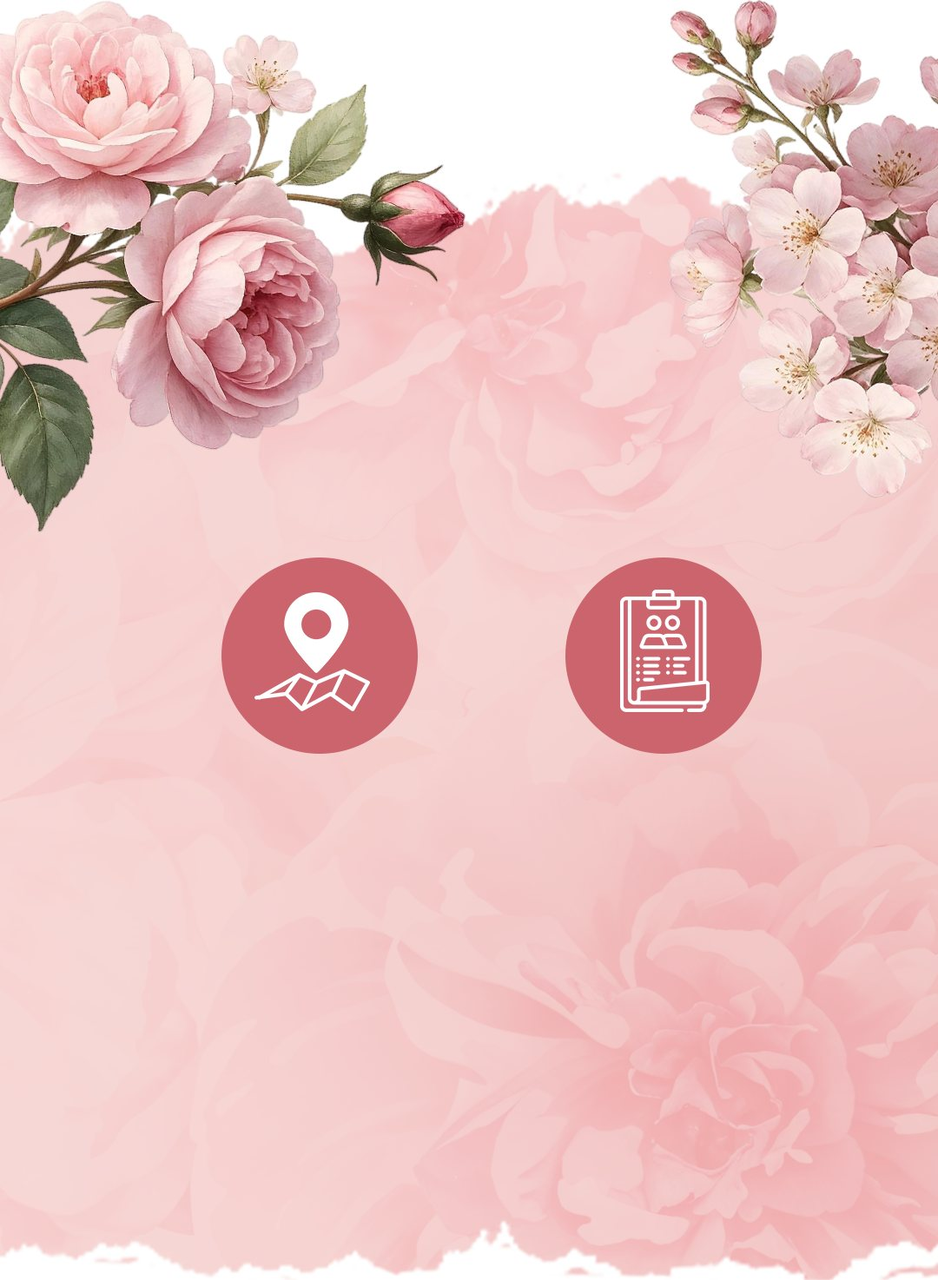
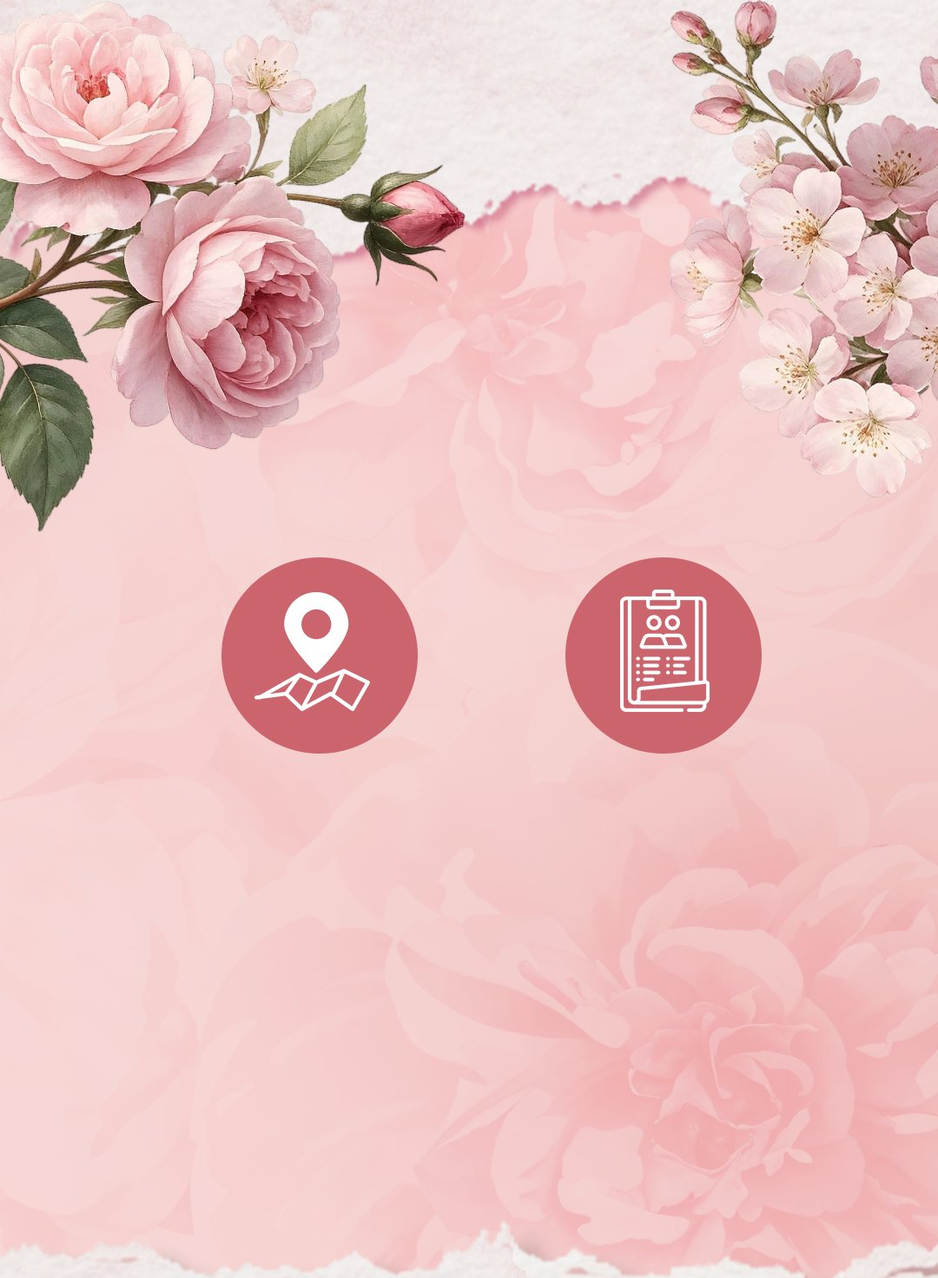
Arte atualizada, borboletas menores com sombra, calendário sobre o papel
Claude-Session: https://claude.ai/code/session_01QqVtgy1GKZ2iQAML3LUrzv

diff --git a/index.html b/index.html
@@ -56,8 +56,9 @@
   @keyframes pulso{0%,100%{box-shadow:0 0 0 0 rgba(201,168,90,0)}50%{box-shadow:0 0 26px 4px rgba(201,168,90,.25)}}
 
   /* calendário */
-  .calendario{padding:3cqw 10cqw 7cqw;text-align:center;opacity:0;transform:translateY(20px);transition:opacity 1.2s ease,transform 1.2s ease}
-  .calendario.revelada{opacity:1;transform:none}
+  .calendario{min-height:87.5cqw;background:url(img/arte-cal.jpg) center/100% 100% no-repeat;padding:2cqw 10cqw 7cqw;text-align:center;}
+  .calendario>*{opacity:0;transform:translateY(20px);transition:opacity 1.2s ease,transform 1.2s ease}
+  .calendario.revelada>*{opacity:1;transform:none}
   .calendario h2{font-family:"Pinyon Script",cursive;font-weight:400;font-size:13cqw;line-height:1.1;color:var(--ouro)}
   .calendario .ano{font-size:3.6cqw;letter-spacing:.42em;margin:.6cqw 0 4cqw;padding-left:.42em}
   .mes{display:grid;grid-template-columns:repeat(7,1fr);row-gap:.4cqw}
@@ -91,28 +92,30 @@
 </head>
 <body>
 <main id="convite">
-  <div class="faixa" data-img="img/arte-a.jpg" data-h="800" aria-label="Laura Chimada, XV anos">
+  <div class="faixa" data-img="img/arte-a.jpg" data-h="2000" aria-label="Laura Chimada, XV anos">
     <svg id="logo" viewBox="-17.4 -409.7 1195.8 897.5" aria-hidden="true">
 <defs><linearGradient id="ouro" gradientUnits="userSpaceOnUse" x1="-1300" y1="-200" x2="1300" y2="200" gradientTransform="translate(-1400 0)"><stop offset="0" stop-color="#b08643"/><stop offset=".44" stop-color="#b78d48"/><stop offset=".5" stop-color="#f1dca8"/><stop offset=".56" stop-color="#b78d48"/><stop offset="1" stop-color="#b08643"/></linearGradient>
 <clipPath id="corte-nome"><rect id="corte-ret" x="-20" y="100" width="0" height="260"/></clipPath></defs>
 <g fill="url(#ouro)"><g id="logo-mono"><path d="M501.28-298.75c0.02-28.8,0.02-57.61,0.08-86.41c0.02-11.36-4.52-17.09-15.7-19.73c-1.65-0.39-4.24-0.18-3.93-2.78 c0.29-2.48,2.76-1.98,4.48-1.99c22.81-0.05,45.62-0.05,68.43-0.05c0.99,0,2,0.09,2.98,0.26c1.04,0.18,1.91,0.71,2.09,1.84 c0.23,1.46-0.75,2.1-1.94,2.45c-0.96,0.28-1.95,0.45-2.91,0.71c-9.72,2.64-14.48,8.77-14.48,18.81 c-0.02,40.29-0.03,80.58-0.03,120.88c0,46.12,0.01,92.24,0.03,138.36c0,11.13,2.05,13.87,12.72,17.15c1.71,0.52,3.98,0.61,3.62,3.2 c-0.34,2.47-2.53,2.3-4.34,2.3c-22.48,0-44.96-0.01-67.43-0.08c-1.92-0.01-4.4,0.25-4.5-2.65c-0.09-2.53,2.24-2.5,3.94-2.96 c11.5-3.09,15.97-8.54,16.83-20.44c0.17-2.36-0.54-5.26,3.22-5.71c1.19-0.14,0.92-1.25,0.67-2.01c-3.02-9.39-4.27-19.13-5.6-28.85 c-0.03-0.25-0.4-0.46-0.82-0.92c-3.34,6.04-6.81,11.87-9.86,17.9c-7.02,13.91-15.84,26.61-25.91,38.4 c-11.71,13.71-26.55,21.29-44.84,21.4c-1.81,0.01-3.85,0.06-5.4-0.69c-10.13-4.87-21.3-7.34-30.9-13.39 c-1.25-0.79-2.84-1.64-3.4-2.85c-2.8-6.12-8.58-9.59-12.54-14.65c-2.9-3.7-11.11-25.85-10.18-30.27 c2.3-10.91,3.03-22.57,11.83-31.01c2.25-2.16,2.43-3.49-0.6-5.16c-5-2.76-9.68-6.38-12.58-11.19c-4.43-7.33-8.07-15.74-8.57-23.96 c-0.69-11.39,3.41-22.82,2.39-34.51c-0.12-1.38,0.57-2.99,1.3-4.25c1.47-2.55,1.04-4.46-0.83-6.72c-3.41-4.11-4.51-9.25-5.07-14.41 c-0.3-2.7-1.14-4.69-3.45-6.22c-7.46-4.93-12.48-11.42-12.85-20.78c-0.06-1.64-1.22-2.67-2.35-3.68c-1.91-1.68-3.29-3.75-4.36-6.03 c-5.18-11.05-1.36-19.13,10.62-21.61c10.53-2.18,20.91,0,31.12,2.35c17.78,4.09,34.53,10.94,50.59,19.57 c5.63,3.02,5.21,2.8,5.64-3.43c0.43-6.26,0.21-12.18-2.49-17.91c-0.34-0.73-0.6-1.68-0.43-2.43c1.69-7.85-1.35-15.25-1.92-22.81 c-0.67-8.87,0.18-17.94,0-26.97c-0.2-9.96,8.82-15.58,18.51-12.87c9.22,2.57,16.02,9.11,22.1,15.74 c18.04,19.65,30.22,42.87,38.9,67.99c2.66,7.7,5.45,15.35,8.18,23.03c3.79,20.18,10.78,39.73,11.11,61.12 c1.53-0.79,2.24-1.14,2.93-1.51c3.72-2.02,7.15-1.14,10.2,1.32c3.22,2.59,2.31,5.93,1.15,9.16c-0.92,2.56-2.38,4.78-4.67,6.32 c-1.81,1.22-2.61,2.8-2.75,4.99c-0.5,8.09-3.03,15.58-6.51,22.88c-3.1,6.5-7.06,12.53-6.75,20.53c0.4,10.2,1.22,20.24,3.8,30.11 c0.96,3.67,1.79,7.36-0.86,11.69c3.71-1.85,4.61-4.12,3.83-6.98c-1.98-7.27-2.41-14.78-3.26-22.2 c-1.28-11.18-1.11-22.17,5.27-32.32c2.98-4.74,5.38-10.1,5.91-15.8c0.51-5.39,0.86-10.39,5.89-13.98c1.66-1.18,2.49-3.93,3.1-6.13 c1.96-7.09-2.55-15.48-10.5-14.08c-3.57,0.63-4.31-1.67-4.7-4.29c-0.87-5.76-1.5-11.55-2.48-17.29 C510.08-276.91,507.11-288.3,501.28-298.75z M420.12-285.75c-7.39-0.17-8.86,0.95-7.37,4.51c3.41,8.12,7.33,15.98,12.08,23.45 c9.58,15.08,22.79,26.33,37.73,35.6c9.74,6.04,20.08,11.08,31.1,14.52c2.19,0.69,4.95,1.9,6.29-0.74 c2.07-4.06,3.79-8.01,0.98-13.06c-12.36-22.24-28.43-40.67-50.89-53.3C440.04-280.39,429.57-284.12,420.12-285.75z M466.14-270.19 c-1.83-4.26-2.83-5.47-6.64-8.34c-1.99-1.5-4.11-2.86-5.96-4.52c-24.02-21.61-51.95-36.34-82.32-46.72 c-10.1-3.45-20.58-5.42-31.29-5.84c-3.26-0.13-6.07,0.75-7.1,4.21c-1.77,5.97,4.29,15.66,10.76,15.82 c23.63,0.58,45.71,8.02,67.26,17.1C429.83-290.5,448.43-281.74,466.14-270.19z M505.92-226.17c1.93-3.64,1.53-7.31,1.25-10.86 c-1.02-12.8-4.12-25.22-7.18-37.64c-4.67-18.91-12.62-36.02-26.88-49.74c-1.4-1.34-2.6-3.25-5.02-2.5 c-2.53,0.79-2.92,3.08-3.16,5.2c-0.87,7.7-0.29,15.22,2.67,22.51c3.36,8.29,6.84,16.49,10.76,24.57 C486.49-257.89,498.64-243.49,505.92-226.17z M456.43-219.52c-7.68-4.06-13.6-11.06-21.96-13.61c-22.65-6.92-45.77-9.68-69.39-6.21 c-6.89,1.01-7.91,2.04-9.21,8.86c-0.61,3.17-0.23,6.24,0.57,9.35c1.07,4.14,2.99,5.64,7.53,4.46c18.26-4.73,36.86-6.51,55.75-6.34 C432.07-222.91,444.13-220.78,456.43-219.52z M444.9-151.88c6.87,1.16,12.1-2.45,17.72-5.49c13.22-7.17,23.96-17.28,34.49-27.73 c2.62-2.6,2.63-5.83,1.63-8.83c-0.95-2.88-3.95-1.76-6.15-1.83c-1.98-0.06-4.02,0.05-5.96,0.45 c-20.33,4.13-35.44,16.06-47.63,32.21c-2.03,2.69-4.95,5.8-2.85,9.44C438.06-150.38,441.95-152.29,444.9-151.88z M476.35-207.81 c-0.06-1.35-0.81-1.45-1.38-1.68c-0.92-0.37-1.86-0.74-2.83-0.97c-25.41-5.91-51.13-8.22-77.17-6.2 c-9.95,0.77-19.81,2.28-29.49,4.75c-2.4,0.61-4.96,1.18-3.98,4.92c2.1,7.98,9.53,12.3,17.32,9.84c1.74-0.55,3.49-1.09,5.26-1.54 c27.71-7.05,55.91-9.62,84.44-9.12C471.13-207.78,473.73-207.81,476.35-207.81z M488.01-312.9c0.36-0.25,0.73-0.51,1.09-0.76 c-8.5-23.32-18.42-45.91-33.94-65.64c-5.37-6.83-11.23-13.17-18.82-17.65c-2.77-1.64-5.49-2.54-8.17,0.14 c-4.13,4.12-3.65,13.49,1.15,16.78c14.05,9.63,25.37,21.9,35.29,35.61C472.29-333.83,480.2-323.4,488.01-312.9z M430.38-239.9 c-4.63-5.9-8.27-10.59-11.99-15.22c-0.49-0.61-1.33-1.02-2.09-1.3c-16.73-6.18-33.93-9.41-51.83-8.32 c-2.48,0.15-4.27,1.02-4.6,3.59c-0.51,3.94-1.39,7.82-0.88,11.88c0.52,4.16,2.18,5.55,6.58,5.05c9.56-1.1,19.21-0.98,28.83-0.77 C406.04-244.74,417.42-242.45,430.38-239.9z M498.29-178.36c-1.6-0.73-2.11-0.3-2.57,0.17c-8.33,8.55-17.58,16.11-25.67,24.98 c-13.77,15.11-24.79,31.97-34.18,50.01c-0.65,1.24-1.76,2.8-0.39,4.12c1.36,1.31,2.82,0.08,4.13-0.49 c9.6-4.2,16.31-11.85,22.85-19.6c11.87-14.04,20.4-30.26,29.56-46.05C494.45-169.41,496.23-173.99,498.29-178.36z M413.82-291.14 c-15.63-7.01-31.01-14.16-47.75-17.38c-7.34-1.41-14.66-2.99-22.19-3.13c-3.16-0.06-4.71,1.07-4.18,4.44 c1.11,7.09,9.67,14.91,16.87,15.54c15.1,1.32,30.14,2.98,44.11,9.53c2.69,1.26,3.23,0.35,2.75-2.25c-0.53-2.88,1.21-4.32,3.69-5.03 C409.33-290.06,411.59-290.58,413.82-291.14z M367.98-136c0.45,5.86,3.45,9.71,7.02,13.36c2.15,2.2,3.65,2.07,5.74-0.06 c11.42-11.61,24.79-20.54,39.43-27.46c5.13-2.42,8.58-5.51,10.51-10.92c1.16-3.28,0.5-4.12-2.5-3.5 c-20.55,4.23-39.81,11.6-57.07,23.74C369.29-139.57,367.97-137.86,367.98-136z M461.88-151.86c-9.19,3.64-17.79,5.05-24.64,11.83 c-10.66,10.56-21.77,20.56-29.1,33.93c-1.32,2.4-2.14,4.38,0.18,6.67c5.77,5.68,17.48,4.41,21.49-2.58 c6.37-11.11,12.04-22.63,19.6-33.03C453.29-140.37,457.25-145.62,461.88-151.86z M438.91-147.21c-5.01-0.94-8.64-3.27-13.04-1.23 c-13.79,6.38-26.98,13.59-37.87,24.46c-8.24,8.23-7.98,11.23,1.92,17.6c1.25,0.8,2.62,1.45,3.98,2.05 c4.12,1.83,7.01,0.79,9.73-3.04c5.66-7.96,10.75-16.31,17.7-23.38C426.77-136.27,432.71-141.23,438.91-147.21z M436.06-178.87 c-21.81,2.61-43.61,6.03-64.14,15.05c-6.85,3.01-9.66,8.9-7.66,16.04c1.11,3.94,2.6,4.68,6.25,2.27 c18.43-12.16,38.79-19.56,60.38-23.76c2.78-0.54,5.59-1.14,7.71-3.24c1.61-1.6,5.11-2.77,4.41-4.87 C442.1-180.13,438.59-178.1,436.06-178.87z M413.83-263.42c-3.81-4.4-4.81-11.06-10.6-13.79c-14.29-6.75-29.42-10.29-45.27-10.6 c-1.3-0.03-2.63-0.25-3.35,1.4c-2.64,6.07,4.17,16.77,10.78,16.62c15.58-0.34,30.84,1.28,45.57,6.69 C411.7-262.83,412.52-262.43,413.83-263.42z M427.91-375.84c-2.08-0.14-2.45,1-2.88,2.1c-2.06,5.16-0.01,15,4.4,18.47 c10.85,8.53,21.33,17.36,29.07,29c0.8,1.2,1.95,2.58,3.46,0.47c4.62-6.42,4.65-7.9,0.15-14.61c-0.92-1.38-1.82-2.78-2.73-4.17 c-7.24-11.09-16.02-20.74-26.78-28.52C431.01-374.26,429.19-375.1,427.91-375.84z M466.76-193.74c-13.28,0.49-26.42,2-39.35,5.32 c-14.54,3.74-29.27,5.95-44.38,4.73c-7.05-0.57-16.31,8.53-16.08,15.47c0.06,1.77,0.66,2.55,2.47,1.51 c14.61-8.34,31.43-9.35,47.19-13.83c9.47-2.69,19.63-3.32,29.64-3.37c1.65-0.01,3.48,0.3,4.86-0.73 C455.95-188.24,461.63-190.31,466.76-193.74z M378.6-192.42c1.07,2.31,2.88,2.29,4.41,2.67c6.08,1.49,12.25,1.31,18.34,0.35 c9.29-1.47,18.54-3.21,27.78-5.07c12.84-2.6,25.89-3.95,39.05-4.59c7.27-0.36,14.75,0.03,22.76-2.33 C452.32-206.05,415.26-203.14,378.6-192.42z M461.37-301.7c-1.03-6.08-0.71-12.49-3.76-17.85c-6.91-12.13-16.55-21.95-27.46-30.58 c-2.98-2.36-4.01-1-4.36,2.01c-0.99,8.44,1.78,15.33,8.51,20.58c6.97,5.44,12.74,12.13,18.91,18.39 C455.72-306.59,457.51-303.31,461.37-301.7z M468.86-279.44c-2.7-7.99-7.3-14.45-12.78-20.56c-7.53-8.39-15.67-16.19-23.23-24.54 c-1.3-1.44-2.92-3.27-5.07-2.47c-2.46,0.92-2.37,3.58-2.12,5.62c0.73,6.06,2.58,11.53,8.21,15.1c7.71,4.88,15.34,9.86,22.02,16.22 C459.92-286.22,464.51-282.96,468.86-279.44z"/><path d="M635.19-103.72c-10.16,0-20.32,0.08-30.47-0.04c-3.75-0.05-5.32,1.29-5.47,5.2c-1.82,45.33,10.32,86.4,40.41,120.54 c25.14,28.52,57.23,42.57,96.2,38.27c24-2.65,44.08-13.04,61.61-29.11c12.41-11.37,22.42-24.56,30-39.59 c0.15-0.3,0.28-0.6,0.44-0.9c0.96-1.78,2.02-4.01,4.43-2.9c2.79,1.29,1.53,3.76,0.56,5.62c-2.76,5.32-5.42,10.72-8.64,15.76 c-20.84,32.57-50.71,52.01-88.22,60.23c-18.85,4.13-37.81,3.93-56.53,0.06c-25.36-5.24-48.13-16.26-67.83-33.29 c-31.6-27.31-49.11-61.82-53.66-103.26c-3.77-34.38,4.98-65.75,22.46-94.91c19.99-33.35,48.52-56.63,85.27-69.5 c30.13-10.56,60.3-9.48,89.99,1.56c22.11,8.22,39.79,22.65,53.73,41.63c8.44,11.49,14.55,24.19,19.53,37.51 c1.91,5.1,0.52,8.15-4.11,10.54c-16.65,8.57-31.72,7.08-41.21-11.39c-7.53-14.65-13.97-29.95-23.78-43.28 c-15.57-21.15-35.42-35.28-62.93-34.59c-17.27,0.43-32.42,7.56-45.56,18.27c-30.24,24.65-45.12,57.72-50.78,95.55 c-0.91,6.07,0.04,7.12,6.31,6.63c28.06-2.2,49.1-15.23,62.04-40.58c0.38-0.74,0.71-1.51,1.13-2.23c0.88-1.51,2.01-2.85,3.96-2.32 c2.07,0.57,2.09,2.47,1.95,4.11c-0.51,5.97-1.15,11.92-1.75,17.88c-0.76,7.61-1.62,15.22-2.26,22.85 c-0.34,4.05-2.06,5.81-6.35,5.71c-10.15-0.24-20.32-0.08-30.47-0.08C635.19-103.76,635.19-103.74,635.19-103.72z"/></g><g id="logo-nome" clip-path="url(#corte-nome)"><path d="M852.6,257.97c-4.25,3.85-8.26,7.43-11.32,11.98c-9.11,13.53-18.35,26.98-26.04,41.4c-2.05,3.84-4.53,6.76-9.39,5.33 c-4.6-1.35-5.78-5.04-5.98-9.33c-0.23-5.02,0.62-9.93,1.73-15.75c-5.34,5.27-10.15,9.84-14.73,14.61 c-5.72,5.96-12.4,10.7-19.68,14.33c-11.02,5.49-21.23,0.24-24.05-11.78c-1.11-4.71-1.44-9.45-0.57-14.43 c-8.02,10.61-16.5,20.56-25.98,29.64c-2.41,2.31-4.83,4.54-7.86,6.07c-11.15,5.64-20.9,0.02-21.73-12.48 c-0.86-12.98,2.97-25,7.17-36.97c1.49-4.24,3.02-8.46,4.34-12.75c0.52-1.68,1.33-3.96-0.44-5.09c-1.98-1.26-3.27,0.96-4.52,2.13 c-6.74,6.32-11.92,13.9-16.65,21.75c-4.12,6.84-7.73,13.98-11.57,20.98c-1.12,2.04-2.25,4.08-3.41,6.09 c-1.78,3.09-4.63,3.68-7.78,2.95c-3.34-0.77-5-3.16-5.11-6.53c-0.09-2.8-0.02-5.6-0.02-9.29c-5.03,6.18-9.29,11.83-13.98,17.1 c-14.94,16.82-31.95,30.76-54.32,36.45c-25.75,6.55-50.57-7.04-59.52-32.08c-6.53-18.28-6.77-36.97-3.08-55.66 c7.97-40.35,27.74-74.95,53.35-106.51c13.86-17.08,29.67-31.94,49.65-41.79c7.1-3.5,14.57-5.64,22.58-5.53 c11.9,0.16,20.02,8.04,20.65,19.92c0.64,12-2.8,23.1-7.64,33.78c-5.8,12.78-12.86,24.84-22.31,35.34 c-1.76,1.95-3.96,3.54-6.07,5.14c-1.27,0.97-2.82,1.23-4.12,0c-1.55-1.46-0.92-3.07,0.1-4.49c0.77-1.08,1.75-2.01,2.64-3 c13.43-14.98,23.28-31.98,28.81-51.37c1.78-6.26,2.98-12.62,1.48-19.21c-1.43-6.29-4.9-9.55-11.33-9.93 c-9.07-0.53-16.5,3.51-23.2,8.98c-17.46,14.26-31.23,31.68-43.26,50.63c-14.9,23.47-26.79,48.29-34.61,75.01 c-6.44,22.03-9.03,44.34-4.39,67.06c3.17,15.53,13.72,26.37,27.69,27.53c10.18,0.85,19.65-2.66,28.57-7.51 c20.08-10.92,35.2-27.06,48.45-45.31c3.63-5,5.68-10.2,6.69-16.3c5.51-33.19,15.49-65,29.85-95.46 c8.52-18.06,18.58-34.96,33.64-48.42c5.45-4.87,11.7-8.41,19.01-9.27c10.24-1.2,15.89,5.41,14.39,16.27 c-2.01,14.58-9.05,27.02-16.61,39.25c-12.04,19.5-26.36,37.2-42.45,53.47c-4.79,4.85-8.77,10.48-14.25,14.67 c-0.74,0.57-1.36,1.55-1.61,2.46c-3.59,13.16-7.19,26.33-9.48,39.8c-0.13,0.75,0.1,1.56,0.28,3.73c5.04-7.82,9.3-14.64,13.79-21.31 c2.32-3.44,4.94-6.7,7.62-9.88c1.71-2.03,3.54-4.08,5.69-5.58c4.66-3.24,9.52-6.62,15.58-3.41c4.61,2.44,6.56,8.64,5.22,15.98 c-1.91,10.52-5.86,20.48-8.65,30.75c-1.71,6.3-3.12,12.58-2.82,19.18c0.18,3.9,1.74,4.74,5.04,2.91c2.92-1.63,5.63-3.54,7.99-5.93 c11.72-11.89,22.05-24.92,31.4-38.73c2.36-3.49,3.29-7.63,5.01-11.41c1.52-3.33,2.84-6.8,5.81-9.19c3.46-2.79,7.1-2.61,10.62-0.2 c3.42,2.35,2.38,5.45,1.09,8.49c-4.18,9.83-7.41,19.96-9.89,30.36c-0.94,3.94-1.22,7.9-1.05,11.89c0.24,5.68,2.92,7.28,8.28,5.04 c7.06-2.94,12.74-7.9,18.12-13.09c7.19-6.93,13.75-14.48,19.95-22.32c3.68-4.64,3.85-10.99,7.56-15.64 c0.93-1.16,1.45-2.67,2.47-3.72c2.78-2.88,6.1-3.31,9.53-1.26c3.32,1.99,4.21,4.84,2.8,8.56c-3.35,8.87-7.16,17.58-9.52,26.8 c-0.27,1.07-1.14,2.1-0.09,3.93c5.74-9.48,11.67-18.43,17.84-27.22c3.83-5.45,7.51-11.02,12.34-15.65c1.91-1.83,4-3.6,6.32-4.83 c7.84-4.17,15.6,0.48,15.36,9.27c-0.21,7.58-3.24,14.56-5.28,21.75c-0.65,2.31-2.21,4.5-0.97,7.83 c4.99-6.74,10.04-12.81,15.59-18.46c2.85-2.9,5.87-5.44,9.79-6.69c7.12-2.27,13.31,2.67,12.6,10.1c-0.32,3.33-1.54,6.45-2.62,9.61 c-4.03,11.81-8.69,23.42-11.46,35.63c-0.61,2.71-1.91,6.42,0.47,8c2.78,1.86,5.71-1.07,7.75-3.01 c12.29-11.7,24.14-23.74,30.58-40.01c3.54-8.96,9.29-16.5,17.04-22.39c6.68-5.08,12.77-5.24,19.01-0.21 c1.68,1.35,2.66,1.48,4.14-0.08c1-1.06,2.25-2.03,3.57-2.62c3.21-1.44,6.22-0.72,8.8,1.56c2.48,2.2,1.73,4.82,0.58,7.34 c-5.35,11.67-10.35,23.45-12.89,36.13c-0.98,4.91-1.95,9.8-1.66,14.84c0.28,4.82,2.3,6.09,6.4,3.49 c8.02-5.09,13.44-12.74,19.18-20.1c5.57-7.14,4.74-16.52,9.2-24.06c5.34-9.02,10.77-17.7,21.77-20.67c2.65-0.72,5.4-1.1,7.8,0.29 c4.09,2.37,5.14,0.03,6.11-3.28c7.02-24.07,17.06-46.91,28.6-69.09c8.71-16.73,18.72-32.68,32.05-46.19 c8.12-8.23,17.03-15.39,28.96-17.62c10.98-2.04,18.05,3.64,17.74,14.81c-0.24,8.51-3.52,16.18-7.03,23.77 c-10.78,23.28-26.87,42.76-44.19,61.3c-10.69,11.44-22.08,22.17-34.39,31.88c-1.75,1.38-3.02,3-3.82,5.11 c-6.99,18.36-14.29,36.61-16.82,56.32c-0.47,3.69-0.55,7.25,0.12,10.91c0.69,3.75,2.87,4.61,6.16,3.55 c3.55-1.14,6.69-3.17,9.36-5.63c14.49-13.38,27.58-27.93,36.83-45.56c3.6-6.86,8.15-12.99,14.38-17.67 c7.54-5.66,13.84-5.62,21.27,0.14c1.6,1.24,2.17,0.84,3.02-0.51c1.35-2.13,3.49-3.02,5.83-3.5c3-0.62,5.64,0.17,7.72,2.42 c2.11,2.28,1.02,4.59-0.03,6.94c-5.19,11.58-9.18,23.56-11.78,36c-0.9,4.29-0.96,8.61-0.62,12.93c0.45,5.71,2.98,7.13,7.93,4.4 c4.98-2.75,9.56-6.12,13.34-10.39c7.93-8.97,16.48-17.43,22.84-27.7c0.09-0.14,0.18-0.28,0.31-0.39c1.76-1.58,2.5-5.9,5.87-3.44 c2.89,2.11-0.02,4.53-1.33,6.4c-4.47,6.42-8.84,12.93-13.78,18.98c-6.43,7.87-13.73,14.92-22.08,20.84 c-5.65,4-11.61,6.26-18.16,2.75c-6.55-3.51-8.54-9.94-9.06-16.79c-0.35-4.61-0.07-9.26-0.07-13.97c-3.19,3.89-6.48,7.99-9.87,12.01 c-3.34,3.95-7.11,7.25-12.84,5.86c-5.88-1.43-7.96-6.05-9.07-11.38c-0.1-0.47-0.3-0.93-0.64-2c-4.24,5.07-8.23,9.84-12.21,14.62 c-6.11,7.33-12.9,13.87-21.11,18.89c-11.96,7.31-22.64,2.67-25.38-11.05c-1.56-7.81-0.49-15.54,0.5-23.74 c-2.36,0.67-2.97,2.52-4.1,3.75c-2.36,2.57-4.45,5.42-7.03,7.75c-5.44,4.93-10.95,4.54-15.55-1.12c-1.68-2.07-2.45-2.51-4.36-0.2 c-4.02,4.87-8.37,9.48-12.64,14.14c-2.15,2.34-4.52,4.42-7.42,5.83c-8.79,4.27-16.89,1.01-19.98-8.23 c-1.71-5.13-1.91-10.42-1.17-15.79c0.24-1.77,1.1-3.52,0.24-6.14c-3.01,3.7-5.7,7.09-8.49,10.4c-6.74,7.98-15.18,7.3-19.87-1.87 c-1.92-3.74-3.04-1.71-4.42,0.02c-4.89,6.1-9.58,12.37-15.14,17.92c-3.08,3.08-6.51,5.73-10.23,7.95 c-9.03,5.4-18.66,0.64-19.89-9.81c-0.79-6.73,0.4-13.28,2.26-19.72c2.31-8.01,5.18-15.81,8.48-23.47c0.95-2.2,2.19-4.4,1.5-8.5 c-4.2,4.58-7.89,8.08-10.98,12.06c-5.51,7.09-10.79,14.38-15.91,21.75c-2.6,3.74-5.74,5.69-10.15,4.18 c-4.26-1.46-5.51-5.14-5.28-9.24c0.38-6.7,2.25-13.08,4.51-19.38c2.19-6.11,4.22-12.28,6.25-18.44 C853.14,261.27,853.71,259.98,852.6,257.97z M1057.86,241.66c2.63-0.22,3.65-1.41,4.71-2.4c20.42-19.16,39.54-39.47,54.43-63.36 c6.68-10.71,13.44-21.52,16.1-34.08c0.95-4.49,2.82-10.37-2.39-13.17c-4.97-2.67-9.07,1.4-12.69,4.64 c-8.27,7.42-14.15,16.67-19.9,26.05c-12.29,20.03-22.18,41.27-31.78,62.65C1063.51,228.31,1060.86,234.71,1057.86,241.66z M679.33,235.25c0.34,0.22,0.67,0.43,1.01,0.65c2.51-2.54,5.15-4.98,7.5-7.66c8.02-9.12,16.06-18.23,23.3-28 c11.32-15.3,21.67-31.15,28.27-49.16c1.55-4.24,2.88-8.58,2.29-13.16c-0.71-5.49-3.59-6.89-8.29-4.01 c-4.47,2.74-7.85,6.68-10.83,10.92c-17.08,24.3-28.89,51.23-39.14,78.92C682.03,227.57,680.7,231.42,679.33,235.25z M1007.49,305.66c10.17-10.97,18.33-21.59,20.87-35.55c0.35-1.93,0.27-4.41-1.93-5.18c-2.23-0.78-3.7,1.24-4.72,2.9 c-3.66,5.95-7.52,11.81-10.6,18.05C1008.36,291.49,1006.11,297.48,1007.49,305.66z M1097.02,304.74 c6.87-5.96,11.49-13.62,16.21-21.13c2.18-3.47,4.98-6.84,5.38-11.14c0.25-2.69,1.51-6.39-1.47-7.77c-3.14-1.45-4.94,2.07-6.57,4.16 c-7.29,9.38-11.13,20.38-14.29,31.65C1095.94,301.73,1095.49,303.1,1097.02,304.74z M935.85,305.32 c9.14-9.07,17.03-18.92,21.57-31.08c0.34-0.91,0.39-1.97,0.36-2.95c-0.06-1.93,0.43-4.27-2.07-5.06c-2.11-0.67-3.37,0.96-4.52,2.39 c-4.91,6.15-8.6,13.04-11.53,20.28C937.56,294.05,935.39,299.29,935.85,305.32z"/><path d="M414.05,295.39c-3.66,4.55-6.36,8.35-9.51,11.72c-8.24,8.82-16.92,6.74-20.49-4.76c-0.29-0.94-0.54-1.9-0.8-2.86 c-1.9-0.16-2.16,1.45-2.86,2.39c-5.77,7.73-11.4,15.58-18.14,22.54c-2.1,2.17-4.44,4.01-7.08,5.48c-10.85,6-21.19,0.28-21.79-12.2 c-0.55-11.43,3.3-21.94,7.17-32.42c0.98-2.64,2.06-5.28,2.65-8.02c0.65-3.04-1.52-4.37-3.98-5.49c-2.77-1.26-3.84,0.34-5.08,2.35 c-9.88,15.86-20.57,31.09-34.44,43.81c-1.59,1.46-3.23,2.91-5.04,4.06c-8.82,5.57-17.66,2.44-21.11-7.52 c-2.18-6.29-1.23-12.78-0.42-20.81c-2.55,3.53-4.23,5.87-5.93,8.19c-1.28,1.75-2.54,3.5-3.88,5.2c-4.9,6.22-11.33,8.91-16.85,7.07 c-5.06-1.68-8.52-7.85-8.69-15.57c-0.02-0.97,0.14-1.95,0.26-3.44c-3.96,2.98-6.08,6.96-9.05,10.16 c-7.22,7.81-13.99,16.15-23.66,21.19c-10.78,5.62-19.19,1.96-22.7-9.7c-2.02-6.7-1.27-13.46-0.15-21.78 c-3.15,3.92-5.34,6.72-7.62,9.45c-1.49,1.78-2.98,3.6-4.68,5.17c-6.16,5.66-14.9,3.49-17.63-4.45c-2.54-7.35-1.08-14.66,1.81-21.43 c3.4-7.96,8-15.27,14.7-21.14c7.59-6.66,14.69-7.69,23.45-2.51c1.46,0.86,2.31,0.65,3.51-0.29c1.29-1.01,2.69-2.06,4.22-2.55 c3.28-1.06,6.25-0.17,8.67,2.32c2.32,2.39,1.31,4.85,0.13,7.36c-4.83,10.26-8.92,20.79-11.66,31.82 c-1.42,5.71-2.11,11.44-1.81,17.31c0.28,5.57,1.89,6.6,6.83,4.28c5.65-2.65,10.51-6.48,14.75-10.96 c8.58-9.07,16.62-18.65,23.4-29.16c3.5-5.41,4.26-12.26,8.5-17.38c1.06-1.28,1.83-2.86,3.06-3.91c3.14-2.65,6.71-3,10.14-0.67 c3.23,2.2,2.82,5.34,1.52,8.5c-3.49,8.46-7.41,16.75-10.17,25.5c-1.21,3.83-2.15,7.7-2.03,11.75c0.04,1.27-0.49,2.92,0.95,3.62 c1.51,0.72,2.36-0.81,3.29-1.67c8.31-7.67,13.99-17.3,19.82-26.8c2.69-4.39,4.9-9.07,7.4-13.58c1.05-1.88,2.09-3.84,3.5-5.43 c2.77-3.12,6.26-3.8,9.9-1.65c3.48,2.05,3.68,5.28,2.4,8.75c-3.94,10.61-8.44,21.01-11.32,32c-1.23,4.69-2.32,9.39-1.67,14.28 c0.47,3.49,2.11,4.6,5.48,2.8c6.17-3.31,10.73-8.42,15.19-13.55c8.32-9.57,15.21-20.19,22.36-30.63c2.04-2.99,1.52-4.7-0.91-7.17 c-7.61-7.73-4.93-24.55,4.58-29.69c3.68-1.99,7.81-2.64,11.46-0.37c3.71,2.31,3.83,6.4,3.26,10.33 c-0.77,5.33-2.78,10.31-5.11,15.08c-1.54,3.15-0.65,4.66,2.36,5.5c15.84,4.43,15.19,11.97,10.83,24.7 c-3.01,8.79-7.35,17.18-8.23,26.64c-0.05,0.5-0.23,0.98-0.25,1.48c-0.06,2.25-1.2,5.05,1.33,6.37c2.37,1.24,4.43-0.78,6.27-2.1 c5.05-3.61,8.92-8.41,12.91-13.11c10.41-12.24,18.16-26.17,26.03-40.06c3.7-6.53,9.23-11.33,16.42-13.94 c5.31-1.93,10.29-1.56,14.11,2.98c1.9,2.25,2.74,1.73,4.46-0.19c3.03-3.35,7.03-3.96,10.89-1.68c4.13,2.45,2.88,6.09,1.44,9.7 c-4.48,11.29-9.23,22.47-11.96,34.39c-1.28,5.6-1.71,11.2-1.13,16.85c0.58,5.63,3.47,7.21,8.66,4.81 c5.03-2.33,9.24-5.89,13.25-9.68c10.07-9.54,18.64-20.36,26.88-31.46c0.79-1.07,1.53-2.19,2.38-3.21c1.06-1.29,2.51-1.92,3.96-0.9 c1.68,1.19,0.78,2.7-0.09,3.94c-3.89,5.6-7.59,11.37-11.82,16.71c-7.76,9.79-16.1,19.08-26.06,26.75 c-6.36,4.9-13.39,8.22-21.29,4.63c-8.07-3.67-9.35-11.66-10.01-19.39C413.1,305.62,413.79,301.12,414.05,295.39z M189.38,268.05 c-0.05-0.68,0.25-2.81-1.8-3.66c-2.52-1.04-4.07,0.91-5.43,2.53c-7.96,9.47-12.86,20.49-16.14,32.3c-0.39,1.42-1.07,3.36,0.28,4.21 c1.89,1.19,2.95-0.96,3.91-2.1c6.88-8.16,12.69-17.05,17.76-26.43C188.93,273.11,189.52,271.23,189.38,268.05z M420.4,268.61 c0.11-3.56-0.38-5.69-1.64-5.91c-2.65-0.47-3.88,1.78-5.03,3.42c-7.21,10.29-13.09,21.24-15.77,33.66 c-0.29,1.36-1.17,3.24,0.68,3.96c1.39,0.54,2.26-1.11,3.09-2.08c6.52-7.63,11.55-16.26,16.51-24.92 C419.65,274.27,420.43,271.52,420.4,268.61z"/><path d="M94.77,219.93c-7.25,2.91-13.86,5.61-20.79,7.34c-10.03,2.49-20.03,5.22-30.49,2.65c-2.45-0.6-4.8-1.42-6.72-3.13 c-1.34-1.2-2.14-2.66-1.14-4.41c0.88-1.54,2.44-1.77,3.95-1.25c21.82,7.48,40.2-2.78,58.91-11.37c2.32-1.07,3.13-3.28,4.05-5.46 c8.13-19.14,15.84-38.48,26.47-56.45c6.72-11.36,13.95-22.29,24.58-30.51c4.41-3.41,9.12-6.11,14.67-7.13 c11.45-2.11,18.92,5.25,16.95,16.8c-1.33,7.76-3.57,15.25-7.77,22c-9.46,15.23-20.8,28.82-34.45,40.55 c-6.2,5.32-12.35,10.63-19.18,15.12c-2.11,1.39-2.9,3.48-3.84,5.64c-11.59,26.53-22.59,53.36-38.75,77.6 c-3.88,5.81-8.12,11.37-12.26,17c-1.16,1.57-2.72,2.99,0.49,3.92c17.72,5.15,35.3,11.06,54.09,10.89 c7.41-0.07,14.17-1.87,19.51-7.4c1.18-1.22,2.49-2.59,4.23-1.03c1.61,1.45,0.65,3.1-0.19,4.54c-2.19,3.74-5.7,6.04-9.39,7.98 c-10.22,5.39-21.05,5.5-32.1,3.46c-13.64-2.51-26.62-7.36-39.77-11.53c-4.17-1.32-6.84-0.6-10.11,2.44 c-12.03,11.19-25.92,19.29-42.34,22.09c-8.69,1.48-17.3,1.11-24.73-4.77c-6.93-5.49-8.04-14.83-2.47-21.69 c4.12-5.08,9.48-8.17,15.69-10.14c14.81-4.69,29.67-2.86,44.46-0.35c4.29,0.73,6.7-0.16,9.11-3.68 c15.36-22.37,26.71-46.78,36.89-71.79C93.23,225.59,94.8,223.52,94.77,219.93z M126.67,193.12c1.52-0.49,2.06-0.52,2.42-0.79 c20.48-15.28,36.71-34.04,46.9-57.67c1.71-3.97,2.73-8.26,2.14-12.64c-0.71-5.32-3.73-6.75-8.38-4.12 c-3.06,1.73-5.63,4.01-7.8,6.84C146.27,145.15,137.36,169.01,126.67,193.12z M22.97,306.93c-9.81-0.12-17.78,1.27-25.16,5.14 c-6.33,3.31-9.04,8.16-7.83,13.5c1.07,4.73,6.19,7.98,12.88,8.2c17.74,0.59,30.31-9.22,41.92-20.88c2.18-2.19-0.04-2.59-1.69-3.09 C36.02,307.65,28.73,307.21,22.97,306.93z"/><path d="M766.18,233.43c0.22-4.9,5.02-9.45,9.87-9.34c3.85,0.09,7.07,3.58,6.97,7.57c-0.12,5.09-5.1,10.38-9.62,10.24 C769.24,241.76,765.98,237.94,766.18,233.43z"/></g><g id="logo-xv"><path d="M771.35,451.3c0.04,20.42-16.2,36.4-36.95,36.37c-20.2-0.03-36.19-15.89-36.26-35.98c-0.08-20.45,15.7-36.05,36.5-36.12 C755.71,415.51,771.31,430.69,771.35,451.3z M757.06,451.97c0.51-5.58-0.64-11.11-2.33-16.52c-2.77-8.83-10.83-15.62-18.95-16.17 c-9.03-0.61-16.01,3.62-20.03,13.36c-5.39,13.08-5.18,26.48,1.16,39.11c3.67,7.32,10.05,11.4,19.08,11 c8.33-0.37,13.68-4.16,17.22-11.32C756.24,465.33,757.52,458.91,757.06,451.97z"/><path d="M614.7,428.64c-0.15,1.65-0.27,2.41-0.27,3.17c-0.03,13.81,0,27.61-0.08,41.42c-0.02,4.27,0.58,8.01,5.38,9.52 c1.13,0.36,2.24,1.12,1.92,2.52c-0.26,1.1-1.44,1.34-2.44,1.35c-4.49,0.06-8.98,0.1-13.47,0.07c-1.17-0.01-2.44-0.27-2.72-1.68 c-0.3-1.45,0.76-2.15,1.92-2.5c4.14-1.24,5.08-4.5,5.1-8.19c0.07-15.97,0.02-31.94,0.09-47.9c0.01-3.56-1.7-5.57-4.99-6.51 c-0.98-0.28-2-0.73-1.91-1.95c0.11-1.45,1.42-2.05,2.52-1.92c7.35,0.85,15.11-1.32,20.37,7.59c7.57,12.85,16.82,24.71,25.4,36.95 c0.81,1.16,1.41,3.24,3.12,2.77c2.05-0.56,1.35-2.8,1.36-4.33c0.09-10.31,0.02-20.63,0.09-30.94c0.02-3.83-1.03-6.88-4.98-8.28 c-0.92-0.32-2.11-0.74-1.85-1.95c0.24-1.18,1.52-1.15,2.48-1.17c4.32-0.06,8.65-0.1,12.97-0.06c1.11,0.01,2.56-0.03,2.75,1.49 c0.15,1.23-1.09,1.5-2.01,1.84c-3.59,1.33-4.49,4.24-4.31,7.62c0.51,9.46-1,18.88-0.17,28.39c0.76,8.76,0.25,17.61-0.54,26.4 c-0.16,1.77,0.32,3.89-1.99,4.62c-2.32,0.73-3.77-0.72-4.98-2.43c-5.65-8.02-11.32-16.01-16.9-24.08 C629.4,450.14,622.32,439.74,614.7,428.64z"/><path d="M298.58,486.7c-3.33,0-6.66,0.03-9.98-0.02c-1.01-0.01-2.09-0.26-2.45-1.36c-0.37-1.13,0.33-1.97,1.3-2.38 c3.07-1.27,2.2-3.21,0.96-5.21c-3.33-5.37-6.71-10.72-10.02-16.1c-2.02-3.29-4-2.98-6.05-0.07c-3.84,5.44-7.7,10.86-11.52,16.3 c-1.47,2.1-1.16,3.73,1.41,4.63c1.53,0.53,2.9,1.32,2.22,3.21c-0.54,1.48-2.02,1.51-3.4,1.46c-4.32-0.16-8.64-0.3-12.96-0.49 c-1-0.04-2.14-0.2-2.47-1.31c-0.45-1.48,0.78-1.96,1.8-2.55c11.47-6.59,16.95-18.37,24.54-28.32c1.18-1.55,0.1-2.82-0.72-4.07 c-5.64-8.64-11.29-17.27-16.92-25.91c-1.6-2.46-3.64-4.28-6.52-5.12c-0.53-0.15-1.24-0.81-1.29-1.29c-0.11-1.06,0.89-1.32,1.7-1.33 c6.82-0.06,13.64-0.07,20.46-0.06c0.84,0,1.77,0.23,2.02,1.15c0.26,0.96-0.47,1.5-1.3,1.8c-3.65,1.27-2.25,3.34-0.87,5.4 c3.43,5.11,6.95,10.16,10.27,15.34c1.31,2.04,2.22,2.77,3.9,0.39c3.55-5.03,7.25-9.94,10.82-14.95c1.71-2.39,2.87-4.8-1.19-6.18 c-0.82-0.28-1.53-0.85-1.15-1.84c0.34-0.89,1.27-1.06,2.09-1.07c4.82-0.05,9.65-0.06,14.47-0.04c0.82,0,1.83,0.21,2.02,1.14 c0.27,1.31-0.87,1.69-1.83,1.84c-4.38,0.65-6.92,3.77-9.33,6.97c-4.29,5.72-8.36,11.62-12.71,17.29c-2.06,2.68-2.03,4.95-0.11,7.63 c6.01,8.37,10.84,17.53,17.33,25.59c1.81,2.25,3.55,4.38,6.42,5.27c1.32,0.41,2.66,1.09,2.31,2.74c-0.36,1.67-1.95,1.58-3.26,1.6 c-3.33,0.04-6.66,0.01-9.98,0.01C298.58,486.77,298.58,486.74,298.58,486.7z"/><path d="M803.06,474.6c0-2.49-0.06-4.99,0.03-7.48c0.04-1.17,0.34-2.43,1.75-2.69c1.47-0.27,1.91,0.97,2.48,1.99 c2.24,4.06,4.13,8.32,7.74,11.52c5.25,4.64,11.07,6.5,17.96,4.58c4.07-1.14,7.51-3.13,8.64-7.42c1.25-4.73,0.02-8.93-3.96-12.04 c-5.3-4.15-11.66-6.34-17.61-9.28c-3.91-1.93-7.61-3.97-10.69-7.17c-10.19-10.57-5.98-26.32,8.28-30.09 c6.2-1.64,12.53-1.35,18.78,0.16c2.26,0.54,4.66,1.93,6.75,1.55c6.53-1.18,6.24,2.8,6.05,7.04c-0.11,2.49-0.1,4.99-0.2,7.48 c-0.04,1.01-0.25,2.13-1.32,2.49c-1.38,0.46-2.21-0.54-2.72-1.62c-1.79-3.82-4.17-7.22-7.42-9.91c-4.58-3.78-9.72-5.81-15.72-4.04 c-4.12,1.22-7.03,3.75-7.66,8.26c-0.64,4.58,0.86,8.34,4.98,10.54c6.3,3.37,12.78,6.4,19.13,9.68c6.54,3.39,12.01,7.89,13.97,15.39 c2.4,9.17-3.02,18.17-13.27,22.25c-8.72,3.47-17.32,1.99-25.88-0.76c-1.26-0.4-2.75-1.42-3.76-1.07c-7.44,2.54-6.43-2.62-6.49-6.87 c-0.01-0.83,0-1.66,0-2.5C802.95,474.6,803.01,474.6,803.06,474.6z"/><path d="M531.63,462.64c-12.26-0.03-12.23-0.02-16.15,11.09c-1.38,3.93-3.14,7.82,3,9.31c0.79,0.19,1.35,0.99,1.24,1.95 c-0.14,1.22-1.07,1.69-2.11,1.7c-4.82,0.04-9.64,0.02-14.46-0.03c-1.02-0.01-2.08-0.34-2.31-1.49c-0.23-1.16,0.58-1.98,1.57-2.22 c5.42-1.32,6.82-6.03,8.52-10.28c6.86-17.13,13.54-34.33,20.3-51.5c0.91-2.32,1.64-4.97,4.72-5.16c3.37-0.2,3.61,2.78,4.67,4.96 c8.86,18.26,14.76,37.77,23.73,55.99c1.21,2.47,2.36,4.74,5.21,5.63c1.11,0.35,2.32,0.98,2.15,2.39c-0.21,1.8-1.82,1.73-3.1,1.74 c-6.32,0.05-12.64,0.05-18.96,0c-1.14-0.01-2.5-0.1-2.67-1.63c-0.13-1.21,0.91-1.77,1.85-2.03c4.35-1.19,3.17-3.77,1.77-6.52 c-1.28-2.51-2.96-4.96-3.6-7.64c-1.26-5.25-4.34-6.97-9.4-6.31C535.65,462.86,533.62,462.64,531.63,462.64z M531.96,431.42 c-3.32,8.32-6.22,15.73-9.24,23.08c-1.15,2.8-0.47,4.14,2.61,4c5.13-0.23,10.26-0.53,15.39-0.71c2.29-0.08,1.84-1.26,1.26-2.63 C538.76,447.55,535.55,439.94,531.96,431.42z"/><path d="M384.14,467.53c3.39-8.44,6.85-16.85,10.15-25.33c2.05-5.27,3.83-10.65,5.73-15.97c1.05-2.93,0.77-5.25-2.68-6.27 c-0.95-0.28-2.11-0.64-2.02-1.86c0.12-1.63,1.6-1.48,2.69-1.5c4.16-0.05,8.32-0.04,12.48,0.04c1.09,0.02,2.59-0.22,2.79,1.36 c0.15,1.22-1.09,1.53-2.01,1.86c-4.25,1.55-5.83,5.29-7.27,9.02c-6.8,17.7-13.51,35.43-20.27,53.15c-0.53,1.38-0.94,3.1-1.98,3.94 c-2.99,2.41-4.74,0.73-5.9-2.3c-2.51-6.52-5.05-13.03-7.66-19.51c-5.16-12.81-10.41-25.58-15.56-38.39 c-1.1-2.73-2.37-5.12-5.48-5.97c-0.94-0.26-2.04-0.75-1.7-2.02c0.32-1.19,1.55-1,2.5-1.22c6.46-1.45,12.92-0.47,19.37,0.07 c0.98,0.08,2.2,0.21,2.26,1.46c0.07,1.26-1.13,1.5-2.1,1.69c-2.4,0.49-3.05,2-2.12,4.05C371.81,438.07,375.74,453.31,384.14,467.53 z"/></g></g></svg>
   </div>
-  <div class="faixa" data-img="img/arte-b.jpg" data-h="1215"></div>
-  <div class="faixa" data-img="img/arte-c.jpg" data-h="1689" aria-label="Você está convidado para minha festa de Quinze anos. Sexta, 29 de janeiro de 2027, às 21:00.">
-    <img class="txt fx-sobe" src="img/t-convidado.webp" alt="" data-g="" style="left:25.185%;top:16.282%;width:50.463%;transition-delay:0s">
-    <img class="txt fx-escrita" src="img/t-quinze.webp" alt="" data-g="" style="left:14.444%;top:25.044%;width:65.185%;transition-delay:0.35s">
-    <img class="txt fx-desce" src="img/t-mes.webp" alt="" data-g="data" style="left:40.741%;top:46.655%;width:18.611%;transition-delay:0.1s">
-    <img class="txt fx-linha" src="img/t-linhas.webp" alt="" data-g="data" style="left:23.333%;top:53.168%;width:53.241%;transition-delay:0.25s">
-    <img class="txt fx-zoom" src="img/t-dia.webp" alt="" data-g="data" style="left:42.500%;top:51.214%;width:15.000%;transition-delay:0.45s">
-    <img class="txt fx-esq" src="img/t-dia-sem.webp" alt="" data-g="data" style="left:25.463%;top:53.996%;width:11.574%;transition-delay:0.75s">
-    <img class="txt fx-dir" src="img/t-hora.webp" alt="" data-g="data" style="left:63.241%;top:53.819%;width:9.630%;transition-delay:0.75s">
-    <img class="txt fx-sobe" src="img/t-ano.webp" alt="" data-g="data" style="left:42.407%;top:60.272%;width:15.185%;transition-delay:1.0s"></div>
-  <div class="faixa" data-img="img/arte-d.jpg" data-h="740"></div>
-  <div class="faixa" data-img="img/arte-e.jpg" data-h="2563" aria-label="Dress code: esporte fino. Localização: Cerimonial Caminho das Árvores, Alameda das Framboesas, 151, Caminho das Árvores, Salvador, BA.">
-    <img class="txt fx-escrita" src="img/t-tit-dress.webp" alt="" data-g="" style="left:28.611%;top:8.662%;width:42.778%;transition-delay:0s">
-    <img class="txt fx-sobe" src="img/t-esporte.webp" alt="" data-g="" style="left:40.370%;top:16.543%;width:24.259%;transition-delay:0.5s">
-    <img class="txt fx-escrita" src="img/t-tit-local.webp" alt="" data-g="" style="left:28.056%;top:63.402%;width:43.241%;transition-delay:0s">
-    <img class="txt fx-sobe" src="img/t-endereco.webp" alt="" data-g="" style="left:16.204%;top:73.000%;width:68.426%;transition-delay:0.4s"></div>
+  <div class="faixa" data-img="img/arte-b.jpg" data-h="1700" aria-label="Você está convidado para minha festa de Quinze anos. Sexta, 29 de janeiro de 2027, às 21:00.">
+    <img class="txt fx-sobe" src="img/t-convidado.webp" alt="" data-g="" style="left:25.185%;top:17.059%;width:50.463%;transition-delay:0s">
+    <img class="txt fx-escrita" src="img/t-quinze.webp" alt="" data-g="" style="left:14.444%;top:25.765%;width:65.185%;transition-delay:0.35s">
+    <img class="txt fx-desce" src="img/t-mes.webp" alt="" data-g="data" style="left:41.481%;top:47.471%;width:17.315%;transition-delay:0.1s">
+    <img class="txt fx-linha" src="img/t-linhas.webp" alt="" data-g="data" style="left:23.333%;top:53.706%;width:53.241%;transition-delay:0.25s">
+    <img class="txt fx-zoom" src="img/t-dia.webp" alt="" data-g="data" style="left:43.333%;top:52.000%;width:12.778%;transition-delay:0.45s">
+    <img class="txt fx-esq" src="img/t-dia-sem.webp" alt="" data-g="data" style="left:25.833%;top:54.706%;width:10.833%;transition-delay:0.75s">
+    <img class="txt fx-dir" src="img/t-hora.webp" alt="" data-g="data" style="left:63.241%;top:54.353%;width:9.630%;transition-delay:0.75s">
+    <img class="txt fx-sobe" src="img/t-ano.webp" alt="" data-g="data" style="left:42.963%;top:61.000%;width:14.074%;transition-delay:1.0s">
+  </div>
+  <div class="faixa" data-img="img/arte-c.jpg" data-h="1600" aria-label="Dress code: esporte fino.">
+    <img class="txt fx-escrita" src="img/t-tit-dress.webp" alt="" data-g="" style="left:28.611%;top:60.375%;width:42.778%;transition-delay:0s">
+    <img class="txt fx-sobe" src="img/t-esporte.webp" alt="" data-g="" style="left:40.370%;top:73.000%;width:24.259%;transition-delay:0.5s">
+  </div>
+  <div class="faixa" data-img="img/arte-d.jpg" data-h="1783" aria-label="Localização: R. Itaeté, 21, Pitangueiras, Lauro de Freitas, BA, 42701-360.">
+    <img class="txt fx-escrita" src="img/t-tit-local.webp" alt="" data-g="" style="left:28.056%;top:43.130%;width:43.241%;transition-delay:0s">
+    <img class="txt fx-sobe" src="img/t-endereco.webp" alt="" data-g="" style="left:22.963%;top:56.197%;width:54.167%;transition-delay:0.4s">
+  </div>
 
   <section class="calendario" aria-label="Calendário e contagem regressiva">
     <h2>Janeiro</h2>
@@ -131,15 +134,16 @@
     </div>
   </section>
 
-  <div class="faixa" data-img="img/arte-f.jpg" data-h="1474" aria-label="Clique no ícone para interagir">
-    <img class="txt fx-sobe" src="img/t-rot-local.webp" alt="" data-g="icones" style="left:22.315%;top:64.722%;width:23.611%;transition-delay:0s">
-    <img class="txt fx-sobe" src="img/t-rot-rsvp.webp" alt="" data-g="icones" style="left:58.796%;top:64.722%;width:23.796%;transition-delay:0.15s">
-    <img class="txt fx-sobe" src="img/t-clique.webp" alt="" data-g="icones" style="left:30.185%;top:76.934%;width:39.722%;transition-delay:0.45s">
+  <div class="faixa" data-img="img/arte-f.jpg" data-h="1472" aria-label="Clique no ícone para interagir">
+    <img class="txt fx-sobe" src="img/t-rot-local.webp" alt="" data-g="icones" style="left:22.315%;top:64.810%;width:23.611%;transition-delay:0s">
+    <img class="txt fx-sobe" src="img/t-rot-rsvp.webp" alt="" data-g="icones" style="left:58.796%;top:64.810%;width:23.796%;transition-delay:0.15s">
+    <img class="txt fx-sobe" src="img/t-clique.webp" alt="" data-g="icones" style="left:30.185%;top:77.038%;width:39.722%;transition-delay:0.45s">
     <a class="ponto" style="left:34.12%;top:51.26%" target="_blank" rel="noopener" aria-label="Abrir localização no mapa"
-       href="https://www.google.com/maps/search/?api=1&query=Cerimonial%20Caminho%20das%20%C3%81rvores%2C%20Alameda%20das%20Framboesas%2C%20151%2C%20Caminho%20das%20%C3%81rvores%2C%20Salvador%20-%20BA"></a>
+       href="https://www.google.com/maps/search/?api=1&query=R.%20Itaet%C3%A9%2C%2021%20-%20Pitangueiras%2C%20Lauro%20de%20Freitas%20-%20BA%2C%2042701-360"></a>
     <a class="ponto" id="abrir-rsvp" style="left:70.69%;top:51.26%" href="#" aria-label="Confirmar presença"></a>
   </div>
-  <div class="faixa" data-img="img/arte-g.jpg" data-h="1275"></div>
+  <div class="faixa" data-img="img/arte-g.jpg" data-h="1277">
+  </div>
 </main>
 
 <canvas id="borboletas" aria-hidden="true"></canvas>
@@ -162,8 +166,7 @@
     var h=+f.dataset.h, c=document.createElement('canvas');
     c.width=LARG; c.height=h; f.style.aspectRatio=LARG+' / '+h;
     f.insertBefore(c,f.firstChild); f._canvas=c;
-    if(i<3) carregar(f.dataset.img);
-    if(i>0 && !semMovimento) f.classList.add('entra');
+    carregar(f.dataset.img);
   });
   function desenha(f){ return carregar(f.dataset.img).then(function(img){ f._canvas.getContext('2d').drawImage(img,0,0); }); }
   function revelar(f){ if(f._feito) return; f._feito=true; desenha(f).then(function(){ f.classList.add('visto'); }); }
@@ -220,7 +223,7 @@
       if(e.target===cal) cal.classList.add('revelada'); else revelar(e.target);
       obs.unobserve(e.target);
     }); },{threshold:0.12});
-    faixas.slice(1).forEach(function(f){ obs.observe(f); }); obs.observe(cal);
+    faixas.slice(1).forEach(revelar); obs.observe(cal);
   } else { faixas.forEach(revelar); cal.classList.add('revelada'); }
 
   /* ---------- confirmação ---------- */
@@ -250,11 +253,33 @@
   var IMGS=['img/borboleta1.webp','img/borboleta2.webp'].map(function(s){ var i=new Image(); i.src=s; return i; });
   var MAX=3, bs=[], sp=[], R=function(a,b){ return a+Math.random()*(b-a); }, TAU=Math.PI*2;
   function ang(d){ while(d>Math.PI) d-=TAU; while(d<-Math.PI) d+=TAU; return d; }
-  function pontoNovo(b){ b.tx=colX+R(.1,.9)*colW; b.ty=R(.1,.88)*H; b.tempoAlvo=R(3,7); }
+  /* as maiores ficam nas laterais (nunca no centro); as menores podem cruzar */
+  function pontoNovo(b){
+    var fx=b.grande?(b.lado<0?R(.03,.24):R(.76,.97)):R(.1,.9);
+    b.tx=colX+fx*colW; b.ty=R(.1,.88)*H; b.tempoAlvo=R(3,7);
+  }
+  function sombraDe(img){
+    if(img._sombra) return img._sombra;
+    var iw=img.naturalWidth, ih=img.naturalHeight, p=4;
+    var a=document.createElement('canvas'); a.width=Math.ceil(iw/14); a.height=Math.ceil(ih/14);
+    var g=a.getContext('2d'); g.drawImage(img,0,0,a.width,a.height);
+    g.globalCompositeOperation='source-in'; g.fillStyle='#6b4334'; g.fillRect(0,0,a.width,a.height);
+    var c=document.createElement('canvas'); c.width=Math.ceil(iw/p); c.height=Math.ceil(ih/p);
+    var k=c.getContext('2d'); k.imageSmoothingQuality='high';
+    if('filter' in k){ k.filter='blur(3px)'; }
+    k.drawImage(a,0,0,c.width,c.height);
+    return img._sombra=c;
+  }
+  function asas(src,sw,sh,w,h,we,wd,o){
+    var bs2=sw*.035, bd=w*.035, dy=-h/2+(1-o)*h*.04;
+    x.drawImage(src,0,0,sw/2-bs2,sh,-bd-we,dy,we,h);
+    x.drawImage(src,sw/2+bs2,0,sw/2-bs2,sh,bd,dy,wd,h);
+    x.drawImage(src,sw/2-bs2,0,2*bs2,sh,-bd,-h/2,2*bd,h);
+  }
   function nascer(lado){
     if(bs.length>=MAX) return;
     var z=R(.35,1), esq=lado?lado<0:Math.random()<.5;
-    var b={img:IMGS[Math.random()<.5?0:1], z0:z, z:z, zf:R(.05,.12), zp:R(0,TAU),
+    var b={grande:z>.6, lado:esq?-1:1, img:IMGS[Math.random()<.5?0:1], z0:z, z:z, zf:R(.05,.12), zp:R(0,TAU),
       x:esq?colX-80:colX+colW+80, y:R(.2,.8)*H, a:esq?R(-.6,.3):Math.PI+R(-.3,.6),
       th:R(0,TAU), hz:R(2.1,2.9), ciclos:Math.round(R(3,6)), plana:0, vidaMax:R(16,28), vida:0, sai:false,
       volta:0, banco:0, n1:R(0,99), n2:R(0,99), sobe:0, vel:0};
@@ -269,16 +294,15 @@
   function desenhar(b,o){
     var img=b.img; if(!img.complete||!img.naturalWidth) return;
     var iw=img.naturalWidth, ih=img.naturalHeight, esc=.55+.45*b.z;
-    var w=colW*.30*esc, h=w*ih/iw;
-    var bs2=iw*.035, bd=w*.035, meia=w/2-bd;
+    var w=colW*.21*esc, h=w*ih/iw, meia=w/2-w*.035;
     var we=meia*o*(1+b.banco), wd=meia*o*(1-b.banco);
-    var bob=-Math.sin(b.th)*h*.035;
-    x.save(); x.globalAlpha=.62+.38*b.z;
-    x.translate(b.x,b.y+bob); x.rotate(b.rot+Math.PI/2+Math.sin(b.th)*.035);
-    x.drawImage(img,0,0,iw/2-bs2,ih,-bd-we,-h/2+(1-o)*h*.04,we,h);
-    x.drawImage(img,iw/2+bs2,0,iw/2-bs2,ih,bd,-h/2+(1-o)*h*.04,wd,h);
-    x.drawImage(img,iw/2-bs2,0,2*bs2,ih,-bd,-h/2,2*bd,h);
-    x.restore();
+    var bob=-Math.sin(b.th)*h*.035, giro=b.rot+Math.PI/2+Math.sin(b.th)*.035;
+    /* sombra no papel: quanto mais perto (maior), mais alta voa e mais longe fica a sombra */
+    var sm=sombraDe(img), alt=w*(.22+.35*b.z);
+    x.save(); x.globalAlpha=.10+.06*b.z; x.translate(b.x+alt*.55,b.y+alt*1.05); x.rotate(giro); x.scale(1.08,1.08);
+    asas(sm,sm.width,sm.height,w,h,we,wd,o); x.restore();
+    x.save(); x.globalAlpha=.72+.28*b.z; x.translate(b.x,b.y+bob); x.rotate(giro);
+    asas(img,iw,ih,w,h,we,wd,o); x.restore();
   }
   function brilho(p){
     x.save(); x.globalAlpha=Math.max(0,p.l/p.m)*.5; x.fillStyle=p.c; x.translate(p.x,p.y); var r=p.r; x.beginPath();
@@ -303,7 +327,9 @@
       if(!b.sai&&((b.tempoAlvo-=dt)<0||Math.hypot(b.tx-b.x,b.ty-b.y)<colW*.08)) pontoNovo(b);
       /* rumo: alvo + ruído suave (nada de linha reta) */
       var desejado=Math.atan2(b.ty-b.y,b.tx-b.x)
-        +Math.sin(tempo*.9+b.n1)*.55+Math.sin(tempo*2.3+b.n2)*.25;
+        +(Math.sin(tempo*.9+b.n1)*.55+Math.sin(tempo*2.3+b.n2)*.25)*(b.grande?.6:1);
+      if(b.grande&&!b.sai){ var meio=colX+colW/2, lim=colW*.27, dc=b.x-meio;
+        if(Math.abs(dc)<lim) desejado=Math.atan2(Math.sin(desejado)*.6,(dc<0?-1:1)); }
       var curva=Math.max(-1.6,Math.min(1.6,ang(desejado-b.a)*1.4))*(b.plana>0?.45:1);
       b.a+=curva*dt;
       b.banco+=((Math.max(-.28,Math.min(.28,-curva*.22)))-b.banco)*Math.min(1,dt*5);
